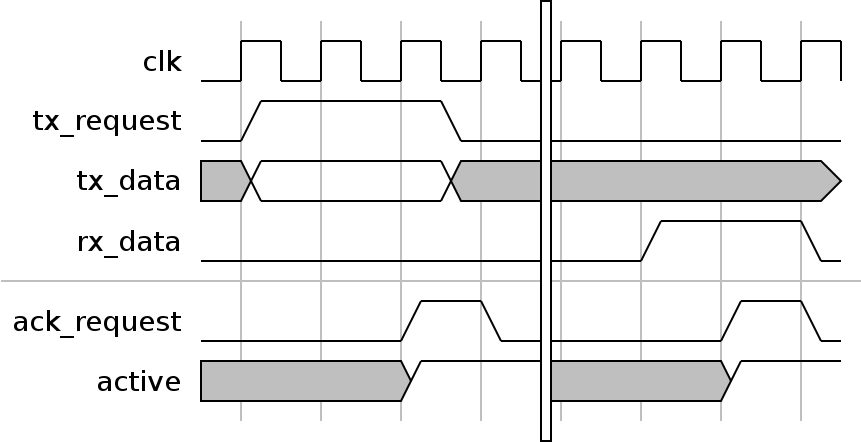
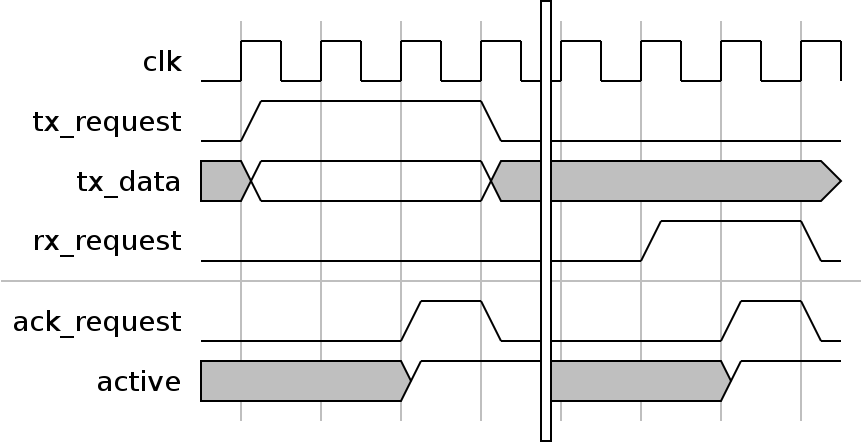
Document SPI

diff --git a/components/spi/README.md b/components/spi/README.md
@@ -1,7 +1,95 @@
 # SPI
 
-A simple 4-wire serialiser/deserializer.
+A simple 4-wire serialiser/deserializer for communicating with the GSensor chip.
+This design should be general enough to allow adaption to other SPI applications
+if desired.
 
-Documentation coming tomorrow.
+## Parameter and Ports
 
-[cookies](./figures/request_interface.png)
+**Parameters**
+
+| Parameter         | Note                                                      |
+--------------------|-----------------------------------------------------------|
+| `DATASIZE`        | Number of bytes transmitted/recieved at a time.           |
+| `CLK_FREQUENCY`   | Clock frequency (`Hz`) of the `clk` in the FPGA logic.    |
+| `SPI_FREQUENCY`   | Desired clock frequency of `spi_clk`. `CLK_FREQUENCY` 
+                        must be an even multiple of `SPI_FREQUENCY`.            |
+| `IDLE_NS`         | Minimum deassertion time for `spi_csn` in `NS`.           |
+
+**Ports**
+
+| Signal        | Note |
+|---------------|--|
+| `reset_n`     | Reset signal. |
+| `clk`         | Primary logic clock. |
+| `tx_request`  | Indicate there is data to send. |
+| `tx_data`     | Data to transmit. |
+| `rx_request`  | Indicate that data should be read from slave. |
+| `rx_data`     | Data read from slave. |
+| `rx_valid`    | Flag that data from slave is valid. |
+| `ack_request` | Acknowledge `tx_request` or `rx_request`. |
+| `active`      | Indicate `spi` is communicating with slave. |
+| `spi_sdi`     | Slave data in. |
+| `spi_sdo`     | Slave data out. |
+| `spi_csn`     | Chip select. |
+| `spi_clk`     | SPI clock. |
+
+### Timing diagrams for transfer requests
+![cookies](./figures/request_interface.png)
+
+The SPI module is capable of servicing simultaneous RX and TX operations or
+just single RX/TX operations. Flag `ack_request` is asserted when an operation
+has begun. Multiple read/write operations during the same transaction (assertion
+of `spi_csn` are supported by asserting `tx_request` or `rx_request` (or both)
+before `active` is deasserted. Either request must be held until `ack_request`
+is asserted.
+
+Read data is available once `rx_valid` is asserted, as shown in the timing
+diagram below
+
+![hello](./figures/response_interface.png)
+
+Once a read request has been acknowledged, the `rx_valid` signal must be
+monitored until it is asserted.
+
+### SPI signal timing
+
+![waveforms](./figures/spi.png)
+
+**Timing**
+
+|Signal     | Time                  |
+|-----------|-----------------------|
+|`T_lead`   | `1/CLK_FREQUENCY`     |
+|`T_spi`    | `1/SPI_FREQUENCY`     |
+|`T_lag`    | `1/CLK_FREQUENCY`     |
+|`T_idle`   | `IDLE_NS`             |
+
+In this version of the protocol, data for both the master and the slave
+transitions on the falling edge of the `spi_clk` and is sampled on the rising
+edge of `spi_clk`. A single transaction is 8-bits by default, and multiple
+transmissions can be chained together by issuing a tx/rx request before the
+previous transmission completes.
+
+Output `active` indicates if a transaction is taking place or not. Once a
+transaction finishes, chip select `spi_csn` will be deasserted for at least
+`IDLE_NS` nanoseconds before the next tranaction occurs.
+
+## Testbench
+
+The testbench for the module consists of the top level testbench itself
+(`spi_tb.sv`) and a couple of helper modules:
+
+* `file_reader.v` - Simple module that abstracts the process of reading data
+    one line at a time from a file, with a zero default if the end of the file
+    is reached.
+
+* `spi_secondary_mimic.sv` - Simple System Verilog implementation of the
+    behavior of the GSensor-side SPI signal timings. Allows for multibyte reads
+    and writes. Data file `secondary_data.txt` is required for verification.
+
+The testbench executes a series of read and write operations. Verification that
+the recieved data is what was expected is done through the `secondary_data.txt`
+file: everytime `spi_tb` recieves data from `spi_secondary_mimic`, it check the
+recieved data with `secondary_data.txt` to verify the correct data was recieved.
+Each byte recieved increments the position in the data file by one line.
